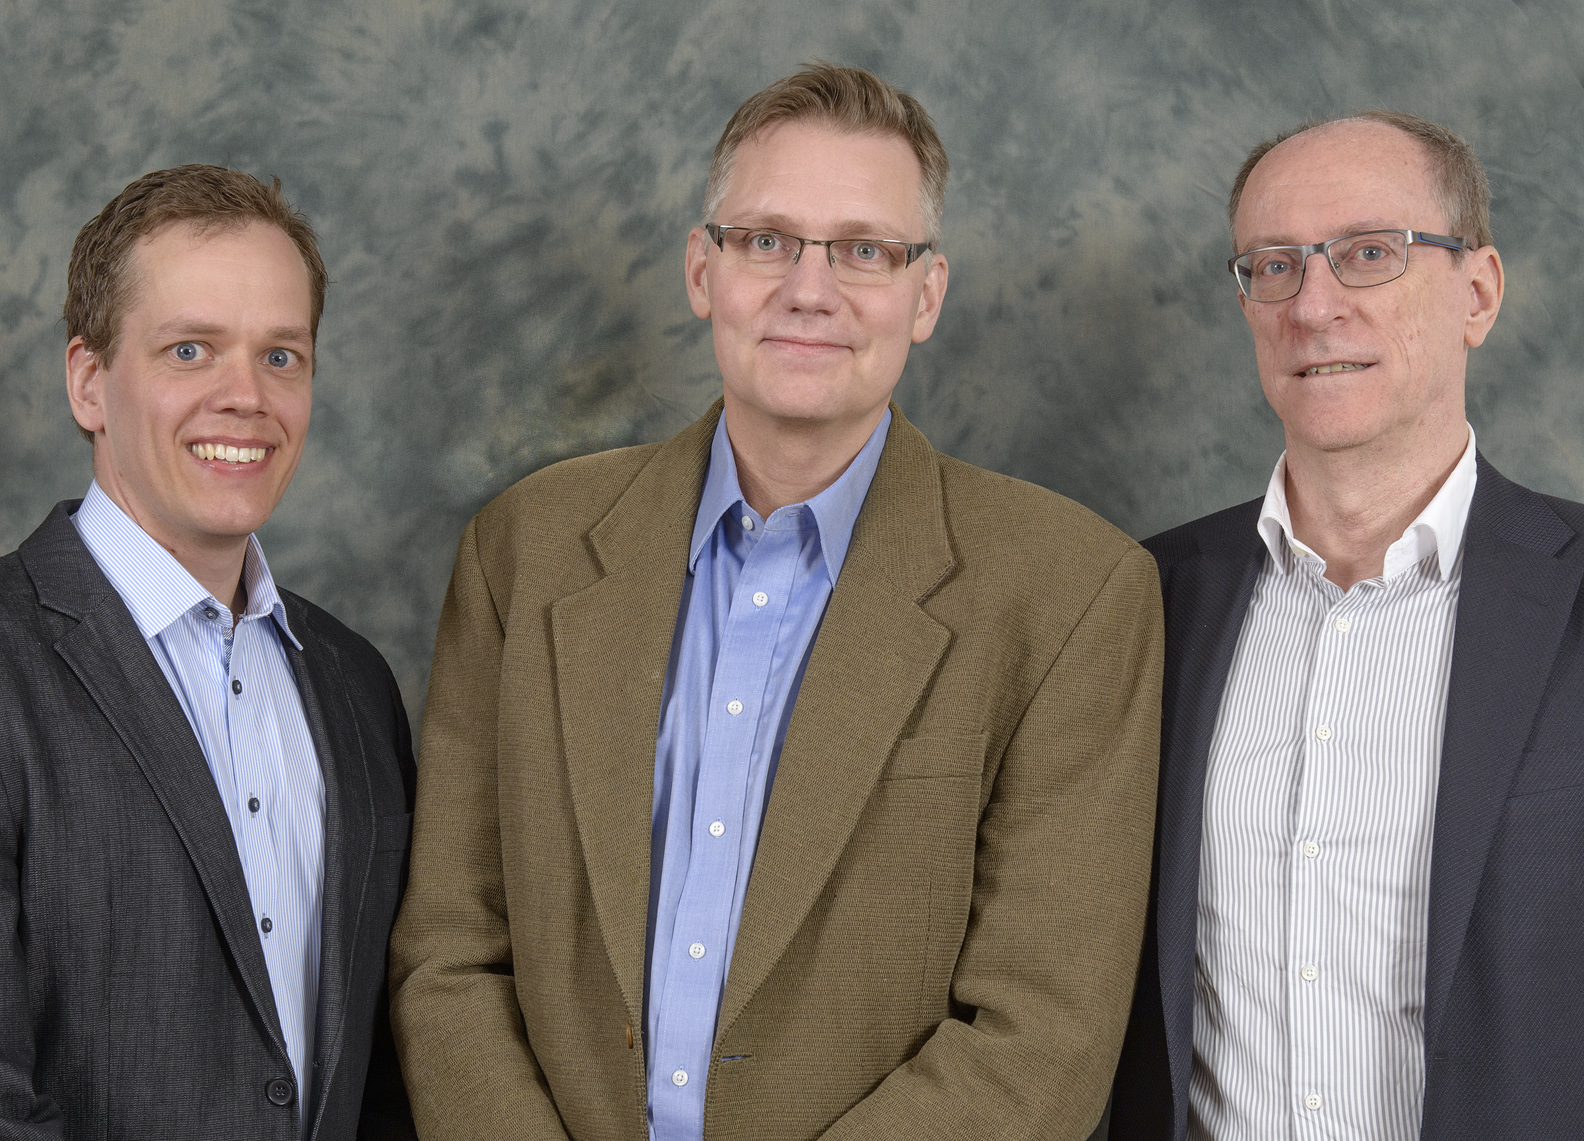
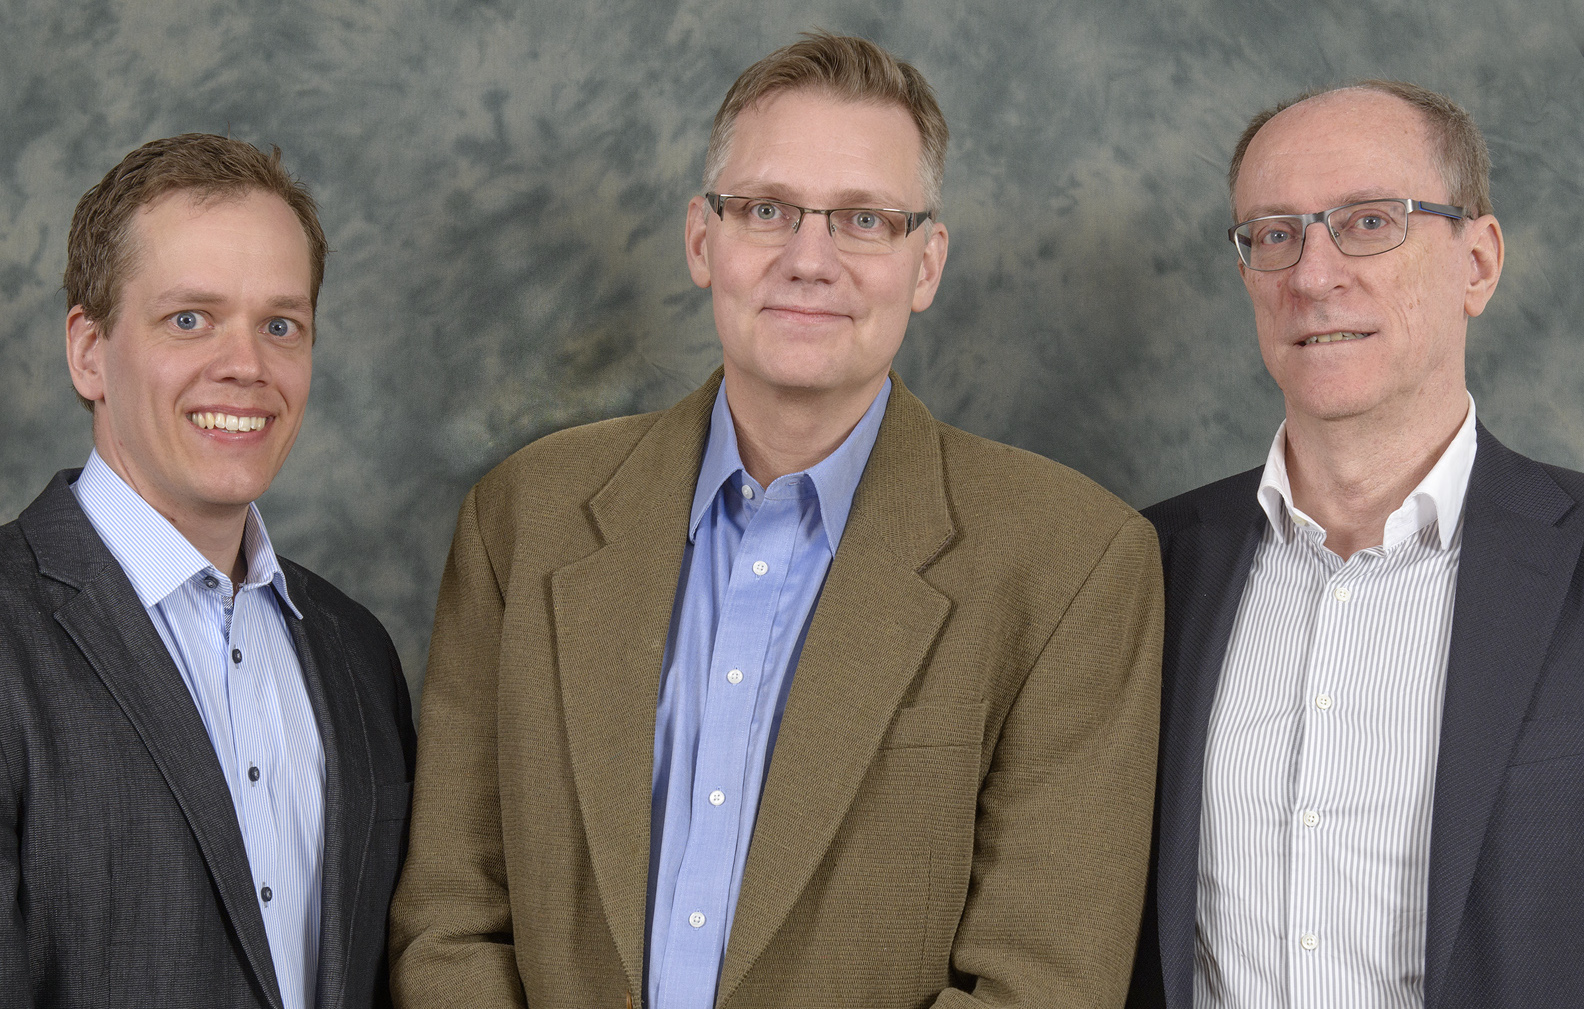
Centralized new image in 'styrelse' and added info to Johans profile-info

diff --git a/content/om/ledning.md b/content/om/ledning.md
@@ -6,7 +6,7 @@ weight = 20
 parent = "Om"
 name = "Ledning"
 +++
-![Från vänster: Johan Svensson, Andreas Lifvendahl, Hans Richter](ledning.jpg)
+<figure"><img style="display: block; margin-left: auto; margin-right: auto; width: 100%;" src="ledning.jpg"></img></figure>
 
 # Andreas Lifvendahl (född 1971) VD
 Andreas har varit VD sedan 2012, efter att tidigare ha varit bolagets försäljningsdirektör 2010-2011. Han lämnade Imint 2011 för att leda det internationella teknikkonsultbolaget Etteplans (publ) lokala kontor i Uppsala. Andreas har över 15 års erfarenhet av global storkundsförsäljning och säljledning i bland annat Europa, USA och Asien, inom branscher såsom mjukvaru- och halvledarindustrin. Han har en civilingenjörsexamen i teknisk fysik från Uppsala universitet, och ytterligare akademisk utbildning inom kommersiell juridik (Uppsala universitet) och affärsledning (Handelshögskolan).
@@ -19,4 +19,7 @@ Hans har varit CFO åt Imint på deltid sedan maj 2015. Han har en fil. kand. fr
 
 Läs mer på Hans [LinkedIn-profil](http://www.linkedin.com/in/hansrichter).
 
-# Johan Svensson
+# Johan Svensson (född 1978) Produktchef
+Johan har en civilingenjörsexamen i tekniks fysik från Umeå Universitet och kommer senast från GE Healthcare där han haft ett flertal seniora roller inom projektledning och produktutveckling. Han har även haft ledande ingenjörsroller inom optik och sensor-teknologi under sin tid på GE. Utanför jobbet är Johan en skicklig och entusiastisk fotograf.
+
+Läs mer på Johans [LinkedIn-profil](http://se.linkedin.com/in/johan-svensson-2bb5091).
